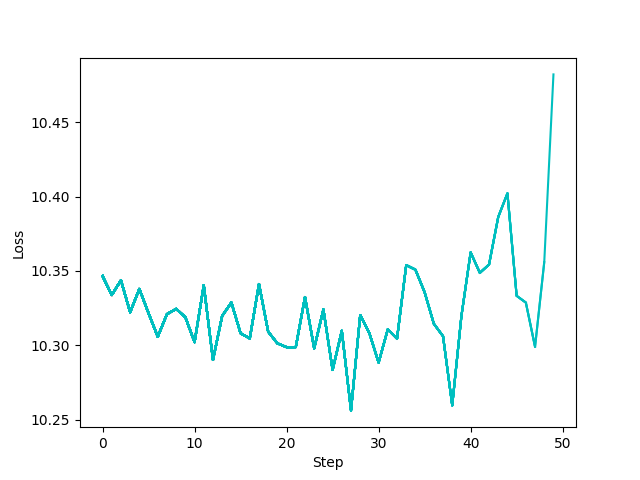
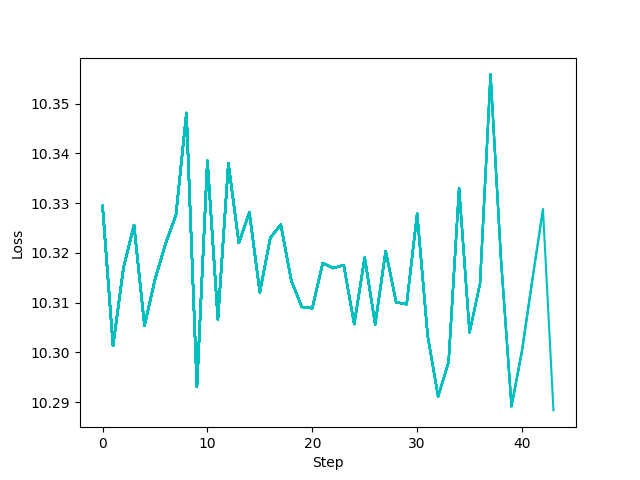
tunes constants

diff --git a/constants.py b/constants.py
@@ -2,7 +2,10 @@
 BATCH_SIZE = 32
 
 # produce_grads.py: generate a prompt/prediction/loss every n seconds
-CREATE_SAMPLE_INTERVAL = 0.5
+CREATE_SAMPLE_INTERVAL = 0.1
+
+# Learning rate for gradient descent in LSTM.update()
+LEARNING_RATE = 0.05
 
 # Path to text sources for grad producers (relative to produce_grads.py)
 PATH_TO_DATA = 'text_sources/'
@@ -11,14 +14,17 @@ PATH_TO_DATA = 'text_sources/'
 PROMPT_LOG_FILENAME = 'prompts.txt'
 
 # produce_grads.py: log every nth prompt/target/prediction
-PROMPT_LOG_INTERVAL = 300
+PROMPT_LOG_INTERVAL = 50
 
 # Push a new model every n gradient steps
 STEPS_FOR_NEW_MODEL = 1
 
 # Text sources: each one creates a user producer/consumer pair in simulate_users.py
 # If blank, simulate_users.py will use all .txt files found in PATH_TO_DATA
-TEXT_SOURCES = []
+TEXT_SOURCES = [
+    'analysisofmind.txt', 'secretgarden.txt', 'taleoftwocities.txt',
+    'treasureisland.txt'
+]
 
 # Name of topic (each different model architecture should have a different topic)
 GRAD_TOPIC_NAME = 'lstm-grads'

diff --git a/lstm_model.py b/lstm_model.py
@@ -4,7 +4,7 @@ import torch
 from torch.utils.tensorboard import SummaryWriter
 from transformers import BertTokenizerFast
 from typing import DefaultDict, List
-from constants import PATH_TO_DATA
+from constants import LEARNING_RATE, PATH_TO_DATA
 from text_generator import TextGenerator
 from helpers import rgetattr
 
@@ -57,7 +57,7 @@ class LSTM(torch.nn.Module):
 
     def update(self,
                grad_dict: DefaultDict[str, List[torch.tensor]],
-               lr=0.1) -> None:
+               lr=LEARNING_RATE) -> None:
         '''Updates the weights of the model'''
         with torch.no_grad():
             for layer, grad_list in grad_dict.items():
